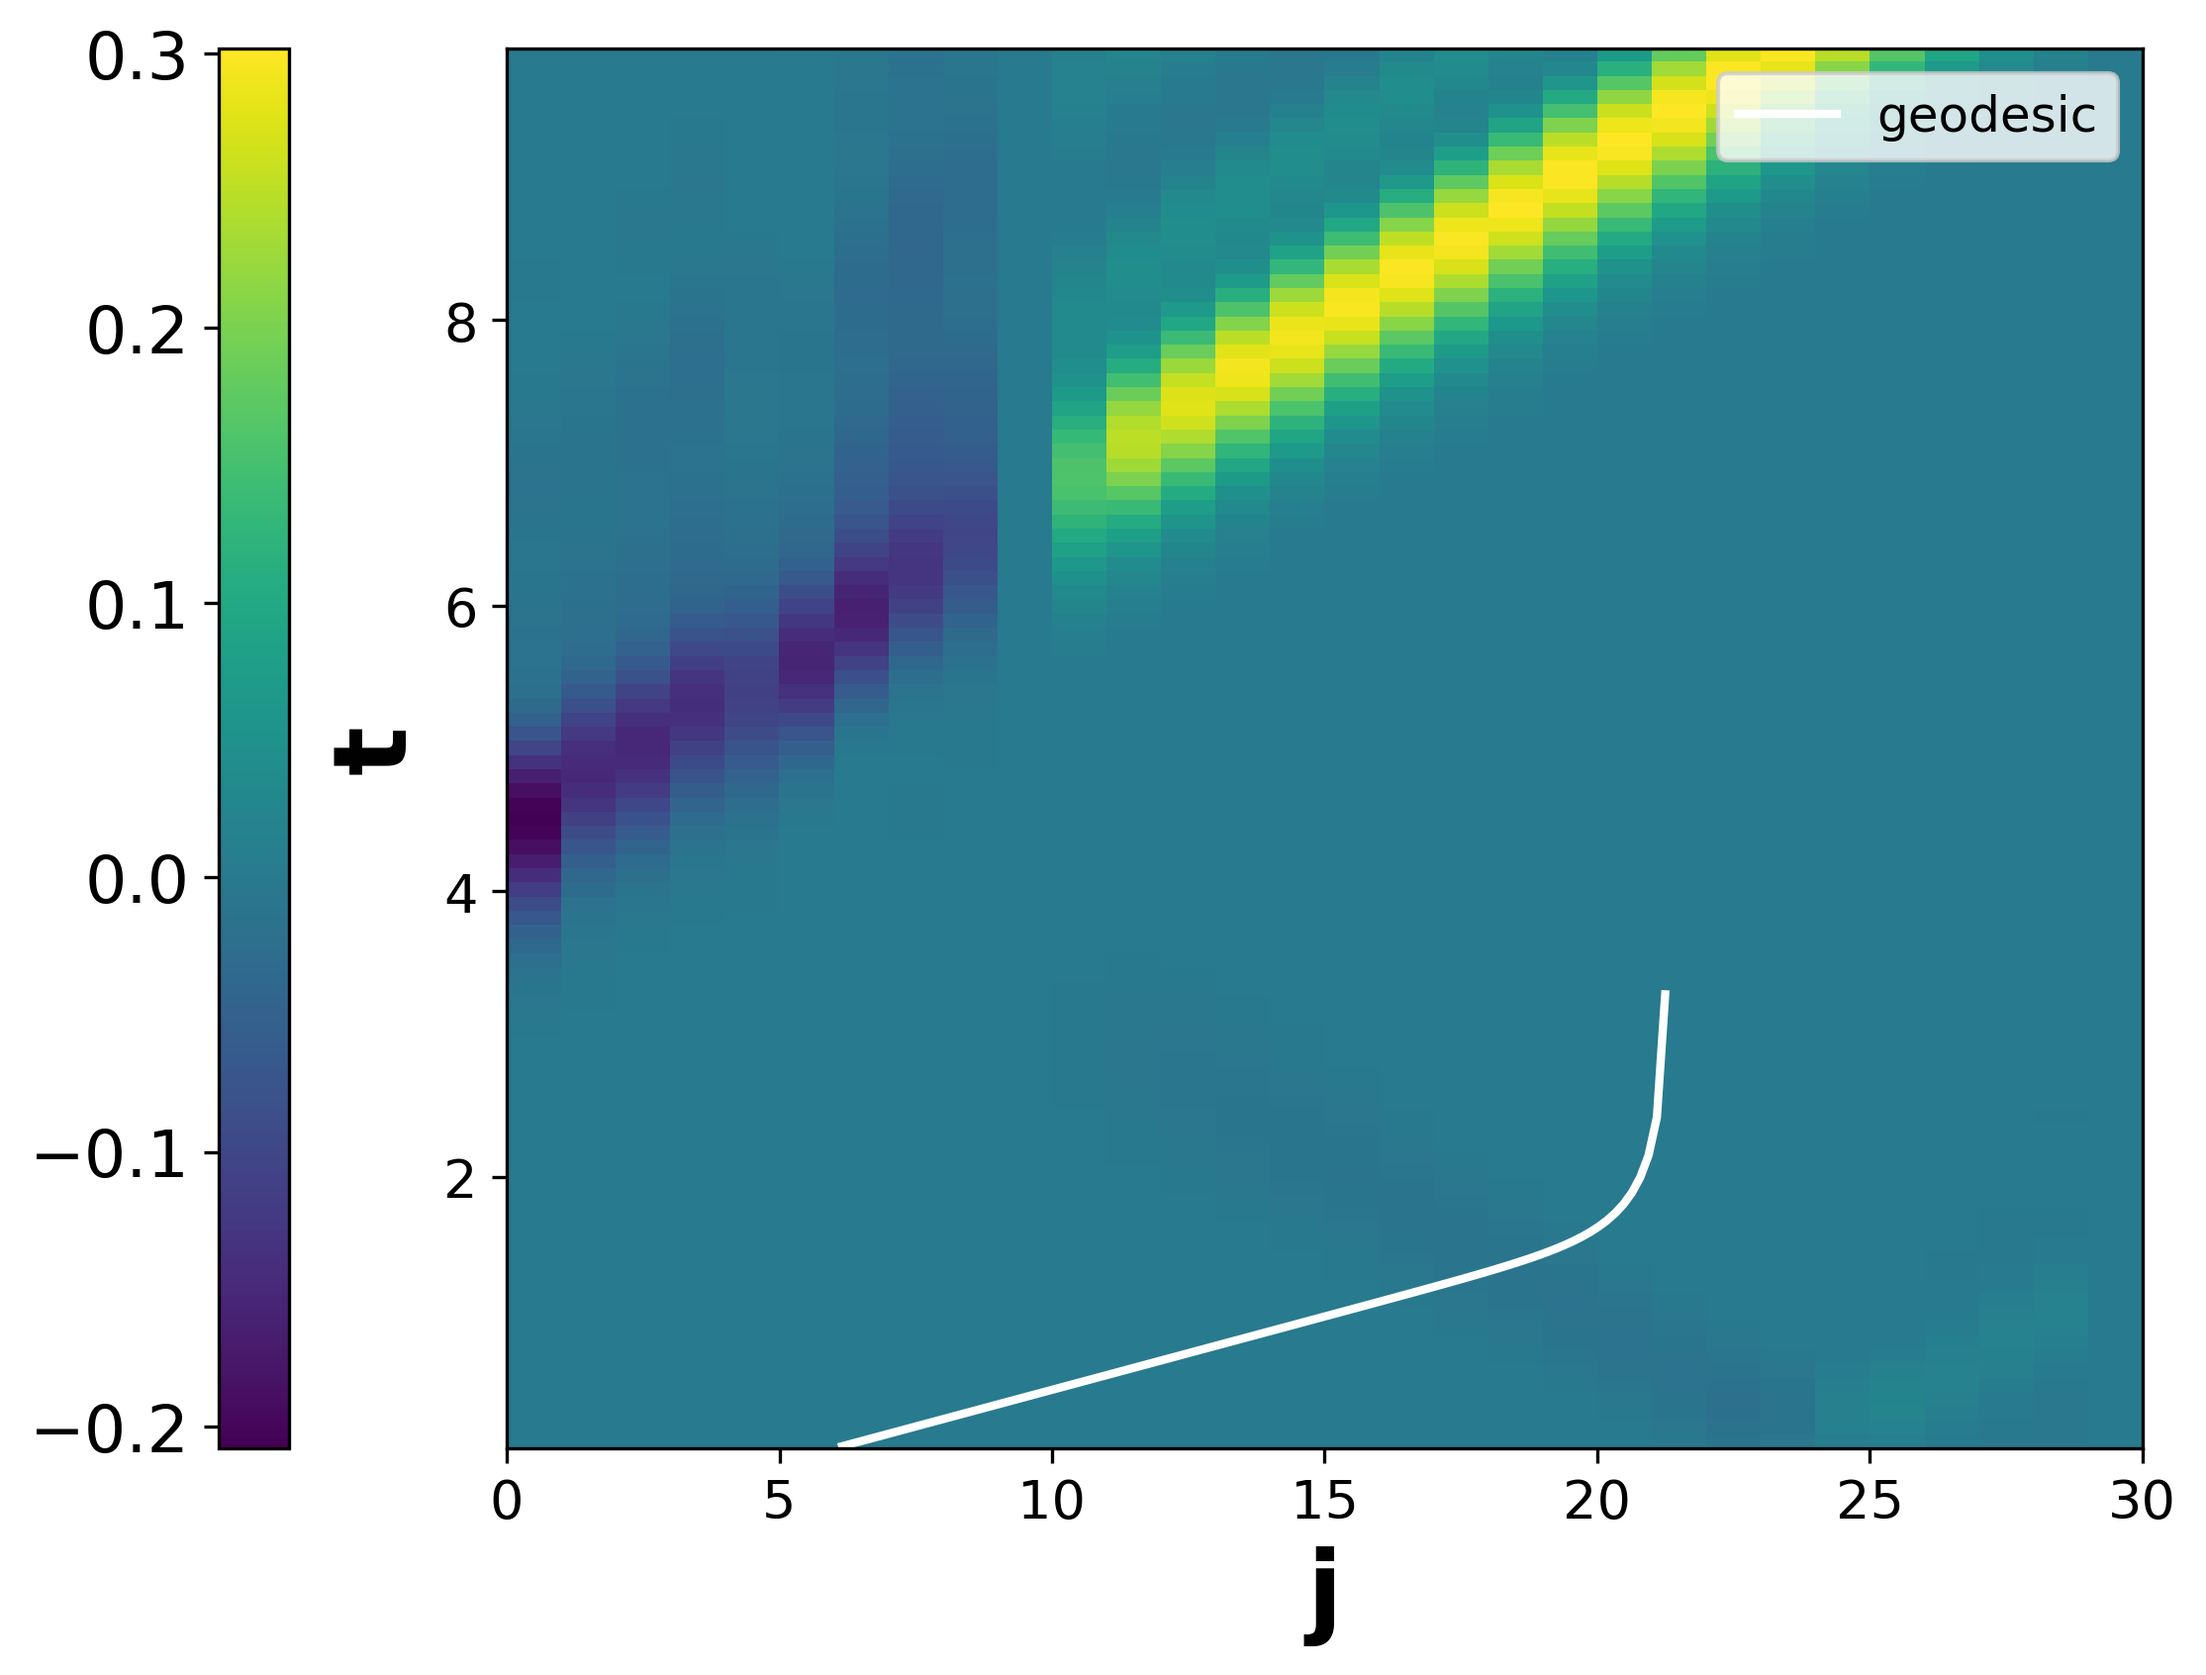
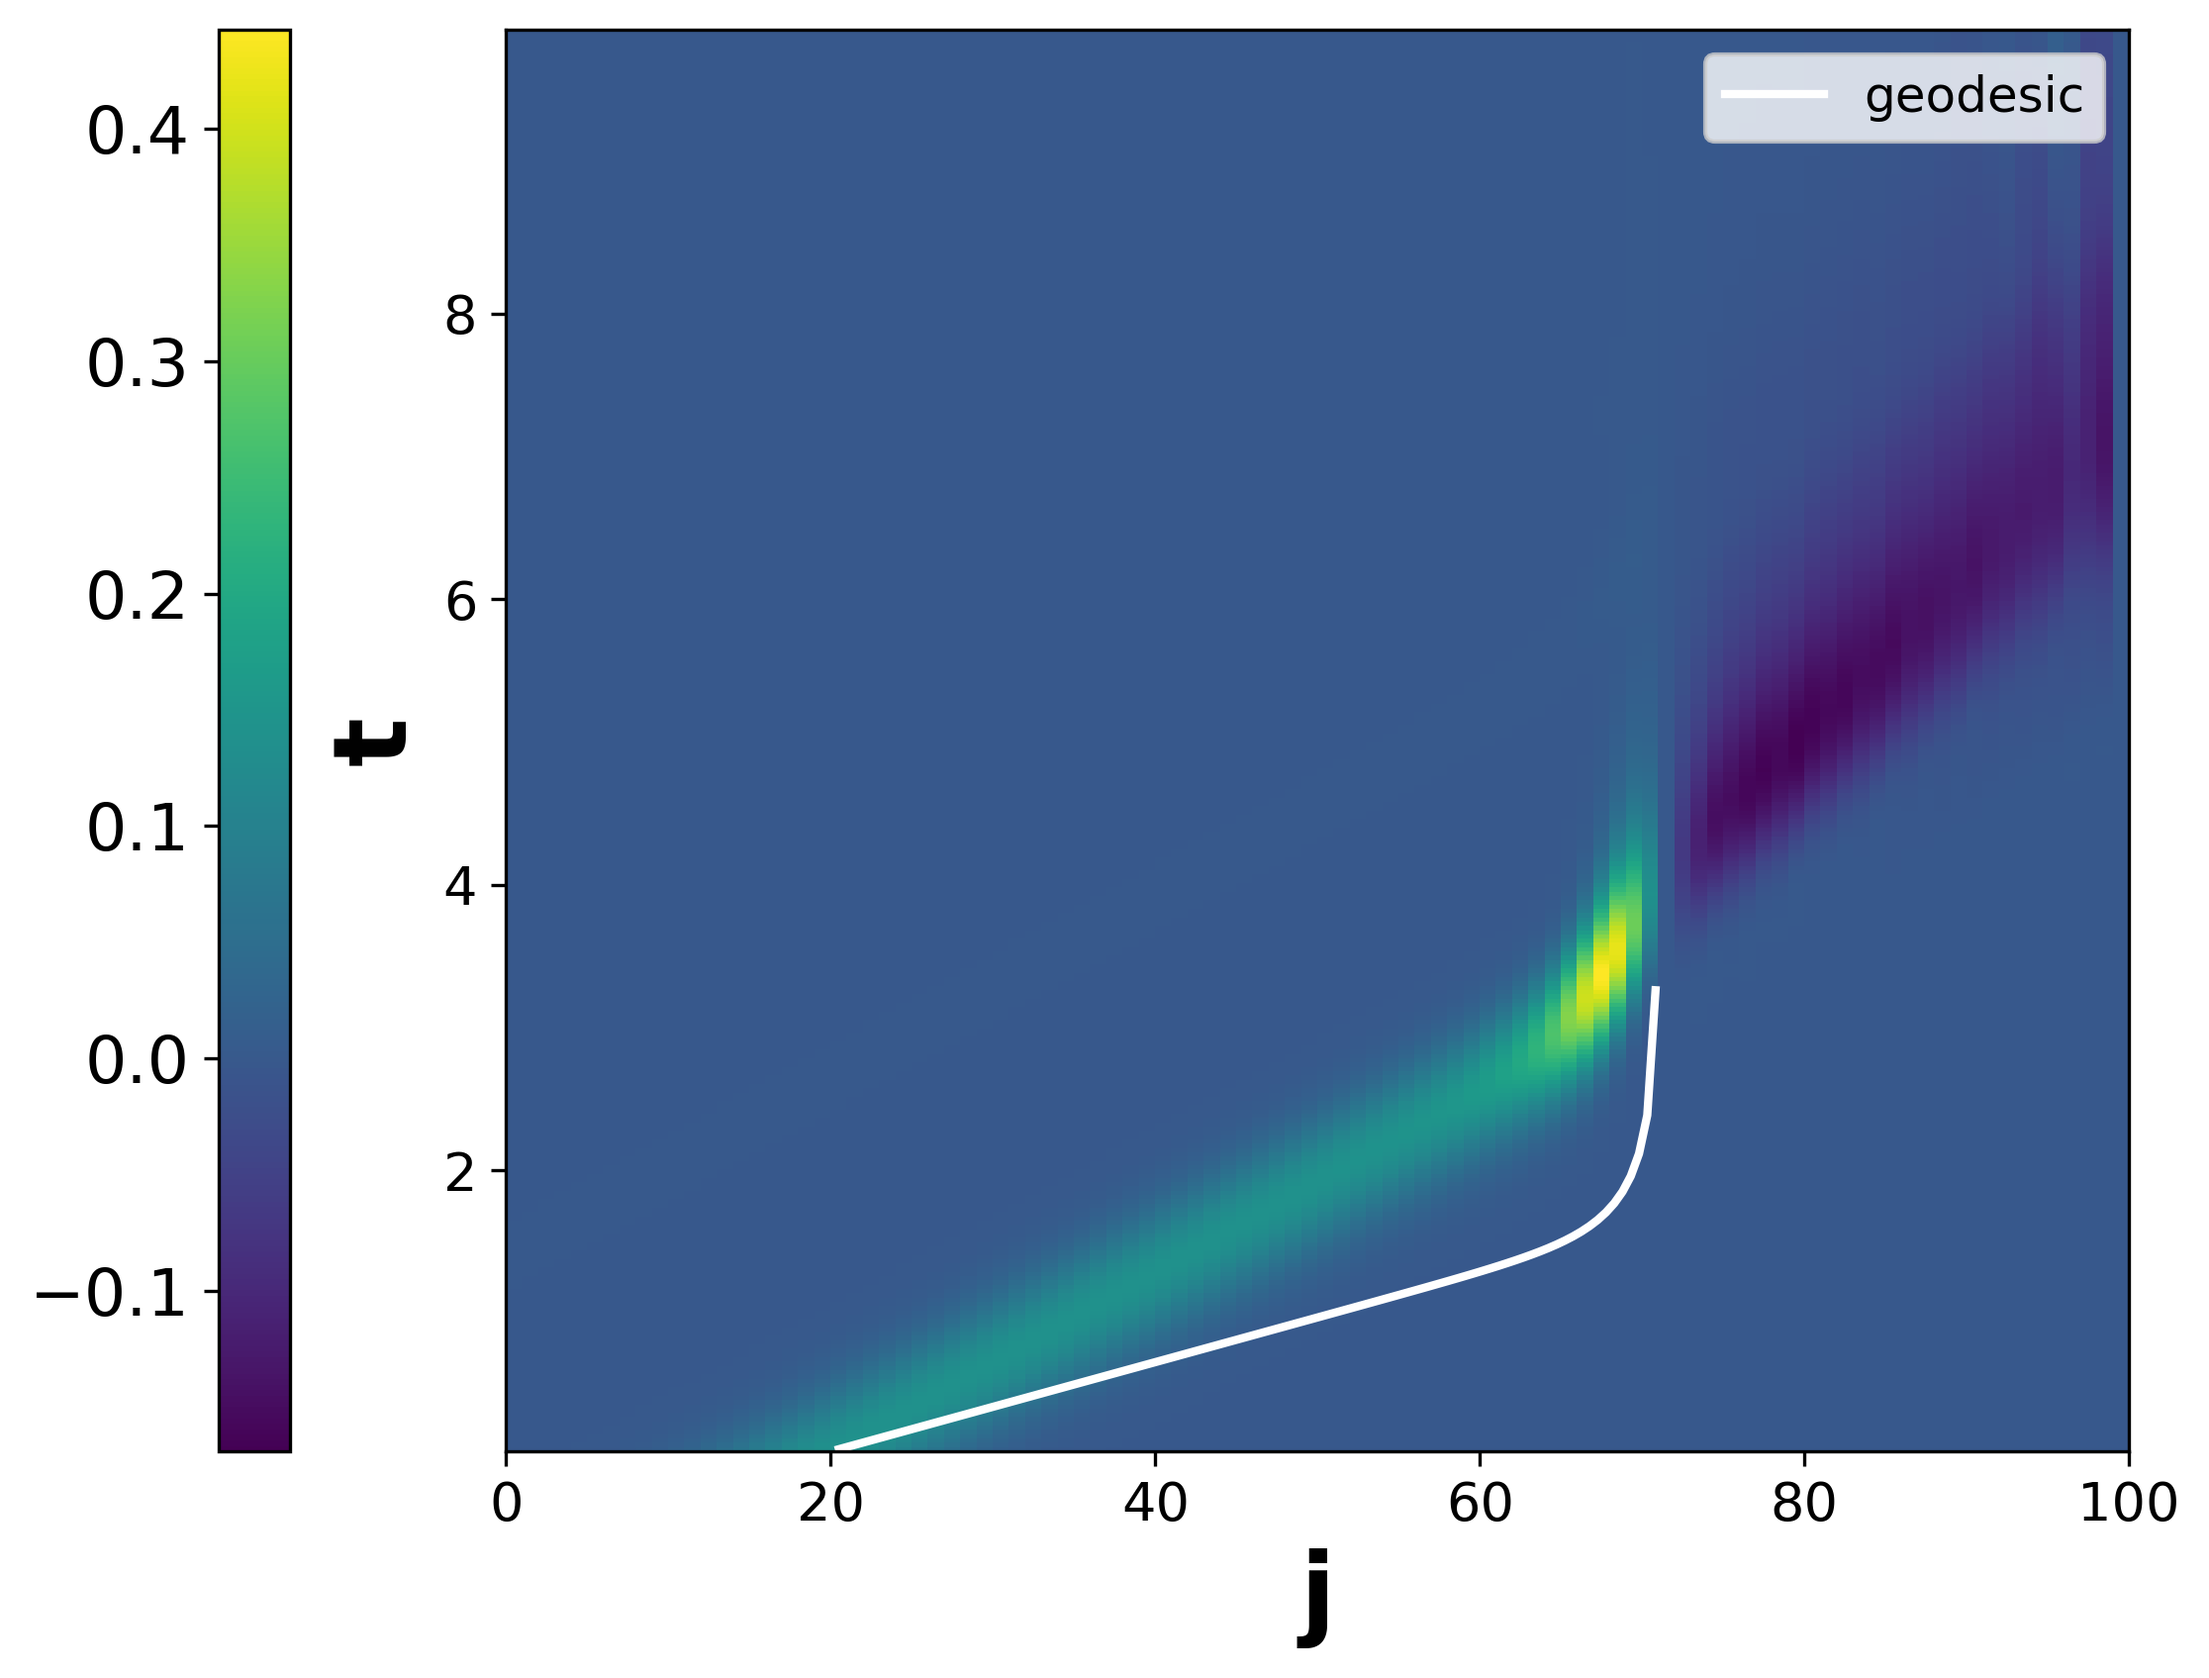
11/5

diff --git a/painleve.py b/painleve.py
@@ -5,12 +5,12 @@ import scipy.linalg #時間発展演算子の作成で利用
 import matplotlib.pyplot as plt
 
 #パラメータ
-L = 300
+L = 100
 l = 2*np.pi
 epsilon = l / L
 p = 1#0**(-5)
 m = 0
-pos = "ll" #lr, ur, ll, ul
+pos = "lr" #lr, ur, ll, ul
 t_i = 0
 t_f = 10
 dt = 0.01*(300/L) #この値は後で検討
@@ -100,14 +100,17 @@ plt.plot(bs)
 plt.grid()
 plt.show()
 
+#bogoliubov変換行列の作成##########################################################################################################################
 #BdG行列を対角化
 eigenvalues, eigenvectors = LA.eigh(H_BdG)
+print(eigenvalues)
+print(eigenvectors)
 
 #固有値、固有ベクトルのソート(確認済み)
 eigenvalues = np.concatenate((eigenvalues[L:], eigenvalues[:L][::-1]), 0)
 eigenvectors = np.concatenate((eigenvectors[:,L:], eigenvectors[:,:L][:,::-1]), 1)
 
-#粒子-反粒子対称性を満たすように調整(列方向に調整しないといけないらしい。行方向だとうまくいかない。固有ベクトルを横切るからか？)
+#粒子-反粒子対称性を満たすように固有ベクトルを調整(列方向に調整しないといけないらしい。行方向だとうまくいかない。固有ベクトルを横切るからか？)
 V = np.zeros((2*L, 2*L), dtype=complex)
 for i in range(L):
     V[:,i] = eigenvectors[:,i]
@@ -118,15 +121,18 @@ print(eigenvalues)
 print(eigenvectors)
 
 # #粒子-反粒子対称性の確認(確認済み)
+# #c = sum gamma
 # for j in range(L):
 #     print(eigenvectors[j,:L] - eigenvectors[j+L,L:].conj())
 #     print(eigenvectors[j,L:] - eigenvectors[j+L,:L].conj())
 # print()
+# #gamma = sum c
 # for j in range(L):
 #     print(eigenvectors[j,:L].T.conj() - eigenvectors[j+L,L:].T.conj().conj())
 #     print(eigenvectors[j,L:].T.conj() - eigenvectors[j+L,:L].T.conj().conj())
-
-#演算子の作成
+# import sys
+# sys.exit()
+#演算子の作成########################################################################################################################################
 #cj_dag_cj(作り方は以前と変わらない)
 cj_dag_cj_list = []
 for j in range(L):
@@ -134,7 +140,7 @@ for j in range(L):
     for k in range(L):
         for l in range(L):
             cj_dag_cj_tmp[k,l] = eigenvectors[j,k].conj() * eigenvectors[j,l]
-            cj_dag_cj_tmp[k,l] -= eigenvectors[j,l+L].conj() * eigenvectors[j,k+L]
+            cj_dag_cj_tmp[k,l] += -1*eigenvectors[j,l+L].conj() * eigenvectors[j,k+L]
             if k == l:
                 for n in range(L):
                     cj_dag_cj_tmp[k,l] += eigenvectors[j,n+L].conj() * eigenvectors[j,n+L]
